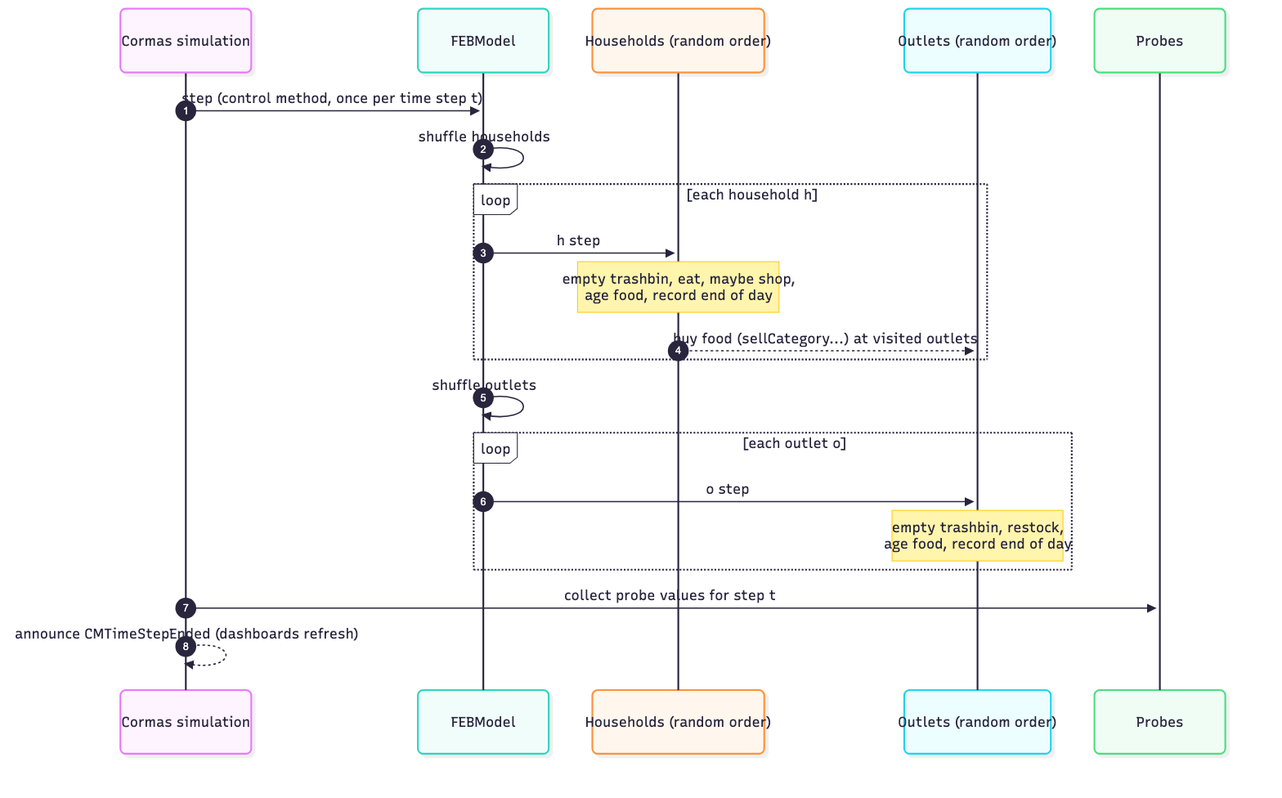
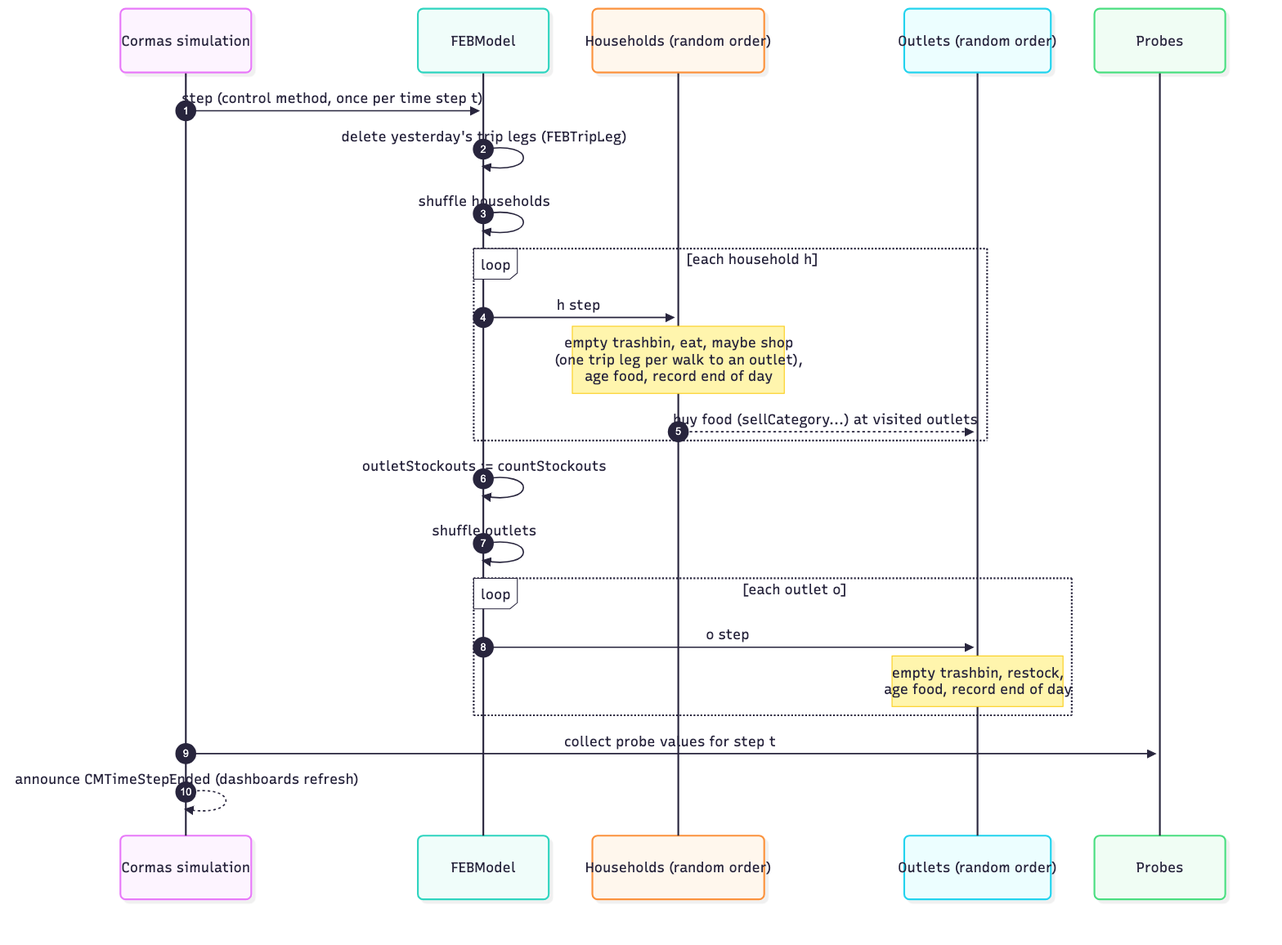
Updated odd.md and recommendations.md

diff --git a/odd-from-code/odd.md b/odd-from-code/odd.md
@@ -1,6 +1,6 @@
 # AMAEA model (FE_Beta) — ODD inferred from the code
 
-This ODD (Overview, Design concepts, Details; Grimm et al. 2006, 2010, 2020) describes **the current implementation** of the AMAEA food‑environment model, as found in the repository `amaea-model` at commit `89bba54`. Everything below is inferred from the Pharo/Cormas source code (`src/FE_Beta-Model`, `src/FE_Beta-Model-UI`, `src/FE_Beta-Model-Tests`) and from Cormas methods the model calls. Nothing is taken from the external ODD or pseudocode documents linked in the README.
+This ODD (Overview, Design concepts, Details; Grimm et al. 2006, 2010, 2020) describes **the current implementation** of the AMAEA food‑environment model, as found in the repository `amaea-model` at commit `3460a98` (first written for `89bba54`, then updated for the shopping trips, the food preference classes, the experiment scenarios and their probes). Everything below is inferred from the Pharo/Cormas source code (`src/FE_Beta-Model`, `src/FE_Beta-Model-UI`, `src/FE_Beta-Model-Tests`) and from Cormas methods the model calls. Nothing is taken from the external ODD or pseudocode documents linked in the README.
 
 Where something cannot be inferred from the code, the section is left empty and marked *(not inferable from the code)*.
 
@@ -66,11 +66,15 @@ The research questions, hypotheses and intended policy uses are *(not inferable 
 | Passive object | `FEBShoppingList` | `Object` | Essential and storage needs per category, built daily by a household. |
 | Passive object | `FEBPurchase` | `Object` | One sale/purchase (shared by buyer and seller records). |
 | Passive object | `FEBMeal` | `Object` | One eaten portion with its category and reason. |
+| Link | `FEBTripLeg` | `CMLink` | One walk of today's shopping trip, from the household or an outlet to the next outlet. |
+| Network | `FEBTrip` | `CMNetwork` | The trip of one household: its legs of the day. Draws the path on the space view. |
+| Preference | `FEBFoodPreference` + 3 subclasses | `Object` | A food preference profile: the share of each category and a colour. |
 | Strategy | `FEBStrategy` + 4 subclasses | `Object` | Money and time reserve thresholds of a household. |
 | Strategy | `FEBShoppingStrategy`, `FEBSimpleShoppingStrategy` | `Object` | Shopping trip algorithm. |
 | Strategy | `FEBFoodConsumptionStrategy` + 2 subclasses | `Object` | What a household eats before its preference-based meals. |
 | Record | `FEBHistory`, `FEBDay`, `FEBHouseholdDay`, `FEBOutletDay`, `FEBStockLevel` | `Object` | Per-step records used by indicators and dashboards. |
-| Graphics | `FEBTileset` | `CMTileset` | Outlet icon. |
+
+Cells, households and outlets are drawn with the image files `grass`, `household` and `outlet` of the model's image folder (there is no tileset class any more).
 
 ![Strategy classes](img/02-strategy-classes.png)
 
@@ -84,9 +88,10 @@ The research questions, hypotheses and intended policy uses are *(not inferable 
 
 | Variable | Type | Meaning | Value / source |
 |---|---|---|---|
-| `numberOfHouseholds` | Integer, parameter 0–1000 (default 2) | Households created at init | Overwritten by `initBigGridScenario` (100) and `initUnconstraintedScenario` (2) |
-| `numberOfOutlets` | Integer, parameter 0–1000 (default 1) | Outlets created at init | Overwritten by `initBigGridScenario` (40) and `initUnconstraintedScenario` (20) |
+| `numberOfHouseholds` | Integer, parameter 0–1000 (default 2) | Households created at init | Overwritten by `initBigGridScenario` (100), `initUnconstraintedScenario` (2) and the scenario inits (100) |
+| `numberOfOutlets` | Integer, parameter 0–1000 (default 1) | Outlets created at init | Overwritten by `initBigGridScenario` (40), `initUnconstraintedScenario` (20) and the scenario inits (10–100, §5.2) |
 | `foodCategories` | OrderedCollection of 5 `FEBFoodCategory` | The food groups, in a fixed order | `initializeFoodCategories` |
+| `outletStockouts` | Integer | Outlet × category pairs sold out once households have shopped, read by the "Outlet stockouts" probe | 0, then set in every `step` |
 | `listOfOutlets` | — | Declared, never used | — |
 
 ### 2.3 Food categories (`FEBFoodCategory`)
@@ -111,11 +116,13 @@ Instance state:
 |---|---|---|---|
 | `householdSize` | Integer | Number of persons | `randomIntegerBetween: minHouseholdSize and: maxHouseholdSize` (2..5, see §5.3) |
 | `dailyNeed` | Integer (meals/day) | Meals the household needs per day | `10 × householdSize` |
-| `foodPreferenceProportions` | OrderedDictionary category → proportion | Share of the daily need wanted per category, sorted most preferred first (ties by name) | One of 3 profiles (§5.4) |
+| `foodPreference` | `FEBFoodPreference` | The household's preference profile | Balanced diet at creation, then one of 3 profiles (§5.4) |
+| `foodPreferenceProportions` | OrderedDictionary category → proportion | Share of the daily need wanted per category, sorted most preferred first (ties by name) | From `foodPreference` (§5.4); tests may set it directly |
 | `substitutionList` | Dictionary category → category | Next category to eat/buy when one is missing | Same chain for every household (§7.3) |
+| `trip` | `FEBTrip` | The network of the legs walked today (§2.9) | Created the first time the household shops |
 | `strategy` | `FEBStrategy` | Money/time reserve thresholds | `MoneySaver`, then 50 % `MoneySaver` / 50 % `TimeSaver` |
 | `shoppingStrategy` | `FEBShoppingStrategy` | Trip algorithm | `FEBSimpleShoppingStrategy` |
-| `inventory` | `FEBFoodInventory` | Food at home (fridge + outside) and trashbin | `dailyNeed` meals of the most preferred category, outside the fridge |
+| `inventory` | `FEBFoodInventory` | Food at home (fridge + outside) and trashbin | Empty at creation; `dailyNeed` meals of the most preferred category, outside the fridge, given at init (§5.4) |
 | `availableMoneyPerStep` | Number | Money available for food each step | Class parameter `availableMoneyPerStep` |
 | `availableTimePerStep` | Duration | Time available for shopping each step | Class parameter `availableTimePerStep` hours |
 | `remainingMoney` | Number | Money left during the current trip | Reset to `availableMoneyPerStep` when shopping starts; **not carried over** |
@@ -170,11 +177,15 @@ The outlets' restock at creation is recorded in the step‑0 record.
 | Time step | **1 day** (shelf lives in days; households "eat in the morning and then consider buying food for the next day"; `availableTimePerStep` per step) |
 | Simulation length | *(not set by the model; chosen in the Cormas simulation interface)* |
 | Space | Regular grid of square cells, 8‑neighbourhood, closed (non‑toroidal) borders |
-| Grid size | 30 × 30 (`initBigGridScenario`), 5 × 5 (`initUnconstraintedScenario`), 6 × 6 (`initCustomizable`) |
+| Grid size | 30 × 30 (`initBigGridScenario` and the scenario inits), 5 × 5 (`initUnconstraintedScenario`), 6 × 6 (`initCustomizable`) |
 | Cell size | Expressed only as walking time: **5 minutes per cell** (`FEBCell>>timeToTravelTo:`). The physical length is *(not inferable from the code)*. |
 | Distance | Cormas `distanceTo:` on a closed 8‑neighbourhood grid = **Chebyshev distance** `max(|Δrow|, |Δcolumn|)` (diagonal moves cost one cell) |
 | Food unit | 1 portion = 1 meal; a person needs 10 meals a day |
 | Money unit | *(not inferable from the code)*; all prices are 5 units per meal |
+
+### 2.9 Shopping trips (`FEBTrip`, `FEBTripLeg`)
+
+Each walk of a shopping trip is a directed link, a `FEBTripLeg`: from the household's home, or from the outlet it has just left, to the next outlet visited (§7.4). The legs of one household belong to its trip, a `FEBTrip` network that knows its household and whether it is highlighted. Legs last one day: `FEBModel>>step` deletes them all before the households act, which also takes them out of their trips, while the trips themselves stay. Trips have no effect on the simulation: they record where households walked, for the new probes (§8.1) and for the space view (§8.2).
 
 ---
 
@@ -182,9 +193,11 @@ The outlets' restock at creation is recorded in the step‑0 record.
 
 The Cormas control method is `FEBModel>>step` (pragma `<control>`). Within one time step:
 
-1. All **households**, in a **new random order**, execute `FEBHousehold>>step`.
-2. Then all **outlets**, in a **new random order**, execute `FEBOutlet>>step`.
-3. Cormas then records the probes (§8) and announces `CMTimeStepEnded` (used by the dashboards).
+1. Yesterday's **trip legs are deleted** (§2.9).
+2. All **households**, in a **new random order**, execute `FEBHousehold>>step`.
+3. The model **counts the outlet stockouts** (`countStockouts`): what households left, before outlets restock.
+4. Then all **outlets**, in a **new random order**, execute `FEBOutlet>>step`.
+5. Cormas then records the probes (§8) and announces `CMTimeStepEnded` (used by the dashboards).
 
 ![Model schedule](img/05-model-schedule.png)
 
@@ -195,7 +208,7 @@ The Cormas control method is `FEBModel>>step` (pragma `<control>`). Within one t
 1. **Empty the trashbin** (food that spoiled the previous night is thrown away).
 2. **Eat** (`consumeFood`, §7.1) up to `dailyNeed` meals; record them; update `hungerMemory`.
 3. **Decide whether to shop** (`shouldGoShopping`, §7.2).
-4. If so, **go shopping** (`goShopping`): reset money and time, **build a shopping list** (§7.3), **do the trip** (§7.4–7.5), record money/time available and time spent, call `reconsiderPreference` (empty, TODO).
+4. If so, **go shopping** (`goShopping`): reset money and time, **build a shopping list** (§7.3), **do the trip** (§7.4–7.5, one trip leg per walk), record money/time available and time spent, call `reconsiderPreference` (empty, TODO).
 5. **Age the food** (`becomeOneDayOlder`): every batch loses one day; expired batches move to the trashbin.
 6. **Record the end of the day** (stock levels and spoiled food).
 
@@ -244,7 +257,7 @@ From the code, these outputs are not imposed but result from interactions betwee
 - Households adapt **what they eat** to what is in their inventory (own share → substitutes → any food left).
 - They adapt **what they buy** to their stock (only what is missing for tomorrow and the next 5 days), to fridge space (perishable storage replaced by non‑perishable substitutes), to money (essential first, then storage within a reserve) and to time (stop when the next outlet is too far).
 - They adapt **where they buy** to availability (go on to the next closest outlet when needs remain).
-- `reconsiderPreference` exists but is empty: preferences and strategies **do not change** over time.
+- `reconsiderPreference` exists but is empty: the model never changes preferences or strategies over time. A user can change them during a run with the household actions (`prefer…`, `be…Saver`); a new preference keeps the food already bought.
 
 ### 4.4 Objectives
 
@@ -274,9 +287,9 @@ Households anticipate **tomorrow**: food that will be expired tomorrow (`remaini
 
 | Where | Random process |
 |---|---|
-| Placement | Households and outlets on random empty cells (`create:randomlyLocatedAloneEntitiesOfClass:`); never two on the same cell |
+| Placement | Households and outlets on random empty cells, never two on the same cell; outlets only within the scenario's region when it has one (`initializeAgentsWithOutletsOn:`) |
 | Household size | `(min + U[0,1) × (max − min)) rounded` (Cormas `randomIntegerBetween:and:`) |
-| Preference profile | Households shuffled, then profile A, B, C assigned in turn |
+| Preference profile | Households shuffled, then sent `preferMeatAndDairy`, `preferStapleAndProcessedFood`, `preferBalancedDiet` in turn |
 | Strategy | Households shuffled; first 50 % MoneySaver, rest TimeSaver |
 | Restock | 10 draws with replacement of a category, uniformly among the 5 |
 | Scheduling | Households, then outlets, shuffled each step |
@@ -286,7 +299,7 @@ All random draws use the Cormas random number generator, so a fixed seed reprodu
 
 ### 4.10 Collectives
 
-None explicitly. Households sharing a preference profile or a strategy form groups only for observation (shapes in the perspectives).
+None that affect the simulation. Households sharing a preference profile form groups only for observation (the `aspectFoodPreference:` colours). Each household's trip legs form a network (`FEBTrip`, §2.9), which is also only observed.
 
 ### 4.11 Observation
 
@@ -306,13 +319,24 @@ When a `FEBModel` is created, Cormas `initializeParameters` resets every paramet
 
 ### 5.2 Scenarios (init methods)
 
-| Init method | Grid | Households | Outlets | Parameters overwritten | Default perspective |
-|---|---|---|---|---|---|
-| `initBigGridScenario` | 30 × 30 | 100 | 40 | none | `perspectiveSatiety` |
-| `initUnconstraintedScenario` | 5 × 5 | 2 | 20 | money 2000, time 24 h, fridge 500, restock 300 | `perspectiveSatietyAndOutletImages` |
-| `initCustomizable` | 6 × 6 | `numberOfHouseholds` | `numberOfOutlets` | restock 3000 | `perspectiveSatietyAndOutletImages` |
+| Init method | Grid | Households | Outlets | Parameters overwritten |
+|---|---|---|---|---|
+| `initBigGridScenario` | 30 × 30 | 100 | 40 | none |
+| `initUnconstraintedScenario` | 5 × 5 | 2 | 20 | money 2000, time 24 h, fridge 500, restock 300 |
+| `initCustomizable` | 6 × 6 | `numberOfHouseholds` | `numberOfOutlets` | none |
 
-All grids: 8‑neighbourhood, closed. Each init then calls `initializeFoodCategories` and `initializeAgents`.
+All grids: 8‑neighbourhood, closed; every init opens in `perspectiveSatiety`. Each init then calls `initializeFoodCategories` and `initializeAgents`.
+
+**Experiment scenarios.** Six more inits, used in [`scenarios.md`](scenarios.md), share `initScenarioWithOutlets:restocking:on:`. It sets **every** class parameter (100 households of 2–5 people, money 200, 2 h, fridge 20, consumption strategy "No spoil weirdo"), creates a 30 × 30 grid and places the outlets with `initializeAgentsWithOutletsOn:`, only on the cells where the scenario's block answers true:
+
+| Init method | Outlets | Placement | Restock per outlet |
+|---|---|---|---|
+| `initBaseline` | 40 | anywhere | 100 |
+| `initAbundantSupply` | 40 | anywhere | 200 |
+| `initScarceSupply` | 40 | anywhere | 60 |
+| `initNearOutlets` | 100 | anywhere | 40 |
+| `initUnequalDistance` | 40 | columns 1–15 | 100 |
+| `initFoodDesert` | 10 | rows and columns 1–10 | 400 |
 
 ### 5.3 Households
 
@@ -321,11 +345,20 @@ All grids: 8‑neighbourhood, closed. Each init then calls `initializeFoodCatego
 - `householdSize` = `(min + U[0,1)·(max − min)) rounded`. With the defaults 2 and 5: P(2) = 1/6, P(3) = 1/3, P(4) = 1/3, P(5) = 1/6 (mean 3.5).
 - `dailyNeed = 10 × householdSize`.
 - Money and time from the class parameters; `remainingMoney`/`remainingTime` set to them.
-- Strategy MoneySaver (temporary), `FEBSimpleShoppingStrategy`, empty history.
+- Strategy MoneySaver and preference "balanced diet" (both temporary), an empty inventory with the class fridge capacity, `FEBSimpleShoppingStrategy`, empty history.
+- The default preference needs the model's food categories, so households can only be created after `initializeFoodCategories` (Appendix C).
 
 ### 5.4 Preferences
 
-`initializePreferences` shuffles the households and assigns, by index modulo 3:
+Each preference profile is a subclass of `FEBFoodPreference`, which holds the share of each category by name (`shares`) and a colour, and each has a household `<action>` that sets it:
+
+| Profile | Class | Action | Colour |
+|---|---|---|---|
+| A | `FEBMeatAndDairyPreference` | `preferMeatAndDairy` | red |
+| B | `FEBStapleAndProcessedFoodPreference` | `preferStapleAndProcessedFood` | brown |
+| C | `FEBBalancedDietPreference` | `preferBalancedDiet` | green |
+
+`initializePreferences` shuffles the households and sends them the three actions in turn, by index modulo 3:
 
 | Category | A "eats a lot of meat and dairy" | B "eats a lot of staple and processed food" | C "has a balanced diet" |
 |---|---|---|---|
@@ -335,7 +368,7 @@ All grids: 8‑neighbourhood, closed. Each init then calls `initializeFoodCatego
 | Dairy | 0.30 | 0.10 | 0.15 |
 | Processed food | 0.05 | 0.30 | 0.10 |
 
-So the profiles are as equal in number as possible (A gets the extra household(s)). Setting preferences also **initializes the inventory**: fridge capacity from the class parameter, and one batch of `dailyNeed` meals of the **most preferred category, outside the fridge**, with that category's outside shelf life (so households can eat on the first step).
+So the profiles are as equal in number as possible (A gets the extra household(s)). After its preference, each household gets its **first day of food** (`storeFoodForTheFirstDay`): one batch of `dailyNeed` meals of the **most preferred category, outside the fridge**, with that category's outside shelf life, so that it can eat on the first step. A preference set later, through an action, keeps the food already bought.
 
 ### 5.5 Substitution list
 
@@ -359,7 +392,7 @@ So the profiles are as equal in number as possible (A gets the extra household(s
 
 ### 5.7 Outlets
 
-Created after the households, on random empty cells. `FEBOutlet>>initialize` sets every price to 5, creates an empty history and inventory, and **restocks once** (§7.7). Finally every household receives the collection of all outlets.
+Created after the households, on random empty cells (only within the scenario's region, if it has one). `FEBOutlet>>initialize` sets every price to 5, creates an empty history and inventory, and **restocks once** (§7.7). Finally every household receives the collection of all outlets.
 
 ---
 
@@ -429,7 +462,7 @@ The list keeps the insertion order, which is the preference order (most preferre
    1. Choose the **unvisited outlet closest to the current position** (greedy nearest neighbour, Chebyshev distance).
    2. Travel time `t = 5 min × distance`.
    3. Time budget: `remainingTime` if essential needs remain; otherwise `remainingTime − availableTimePerStep × timeThreshold`. If `t` exceeds the budget, the trip **ends**.
-   4. Move there, mark it visited, `remainingTime −= t`.
+   4. Record the walk as a `FEBTripLeg` from the previous stop (home at first) to this outlet, in the household's trip (§2.9). Move there, mark it visited, `remainingTime −= t`.
    5. **Buy essentials** (each essential need in list order, money limit = `remainingMoney`), then **buy for storage** (money limit = `remainingMoney − availableMoneyPerStep × moneyThreshold`, recomputed after each category; stop as soon as it is ≤ 0).
 3. Purchases reduce the list: essential need first, then storage need of the same category (`decreaseNeedOf:by:`).
 
@@ -508,20 +541,38 @@ Unused metrics on `FEBHousehold`: `averageDistanceTo5ClosestOutlets`, `averageDi
 | Demand | Σ `dailyNeed` | — |
 | Supply | Σ `restockAmount` of outlets (constant) | — |
 | Total supply | Σ meals in outlets' inventories | — |
+| Missing meals | Σ over households of `dailyNeed` − meals eaten that day | 0 |
+| Average diet diversity | mean number of food categories eaten that day | 0 |
+| Outlet stockouts | outlet × category pairs sold out once households have shopped (`outletStockouts`) | 0 |
+| Minutes to the first outlet | mean walk from home to the first outlet, among households that reached one (first trip leg) | 0 |
+| Outlets visited | mean number of trip legs, among households that reached an outlet | 0 |
+| Shopping minutes | mean `timeSpent`, among households that went shopping | 0 |
+| Share of budget spent | mean `moneySpent / moneyAvailable`, among households that went shopping | 0 |
 
-There is no probe for outlet waste, money or time spent, healthy diet, meal reasons or distances; these exist only in the per‑entity records and dashboards.
+The last seven probes were added for the experiment scenarios ([`scenarios.md`](scenarios.md) §2). There is still no probe for outlet waste, healthy diet or meal reasons; these exist only in the per‑entity records and dashboards.
 
-### 8.2 Perspectives and points of view
+### 8.2 Perspectives and aspects
 
-| Perspective | Households coloured by | Outlets |
+Each entity class has **aspects** (methods with `<aspect>`, filling a look), and a **perspective** chooses the aspect of each class and which classes are hidden. The Aspects panel of a space view changes these choices.
+
+| Perspective | Households shown with | Hidden |
 |---|---|---|
-| `perspectiveSatiety` | satiety level | — |
-| `perspectiveSatietyAndOutletImages` | satiety level | outlet icon |
-| `perspectiveCaloricAdequacy` | caloric level | — |
-| `perspectiveProteinAdequacy` | protein level | — |
-| `perspectiveHealthyDiet` | green healthy / red not | — |
+| `perspectiveSatiety` | `aspectSatietyIndicator:` | `FEBTrip` |
+| `perspectiveCaloricAdequacy` | `aspectCaloricAdequacyIndicator:` | `FEBTrip` |
+| `perspectiveProteinAdequacy` | `aspectProteinAdequacyIndicator:` | `FEBTrip` |
+| `perspectiveHealthyDiet` | `aspectHealthyDiet:` (green healthy / red not) | `FEBTrip` |
 
-Colours: red `#B85353` (hungry, severely inadequate), orange `#E5A16D` (unsatiated, inadequate), green `#78A882` (full, adequate), purple `#9274B5` (excess); grey before the first step. Shape = strategy (square MoneySaver, triangle TimeSaver, circle DesperateSaver, star RichBastard). Size = `0.5 + 0.5 × (size − min)/(max − min)`. Older `pov…` methods give the same information for the legacy Cormas UI.
+| Class | Aspects |
+|---|---|
+| `FEBCell` | default: the `grass` image, no border; `aspectWhite:` |
+| `FEBOutlet` | default: the `outlet` image, size 0.8 |
+| `FEBHousehold` | default: the `household` image, square, size `0.5 + 0.5 × (size − min)/(max − min)`; the four indicator aspects tint it with the level colour (60 % opacity); `aspectFoodPreference:` tints it with the preference colour (§5.4) |
+| `FEBTrip` | default: orange path, 0.05 of a cell thick; red when highlighted, and every other trip hidden; `aspectHousehold:`: a colour per household (`colorGroupedBy:` its id), the same hiding |
+| `FEBTripLeg` | always invisible: its trip draws the path |
+
+Indicator colours (`CMColor`): red `#B90E0A` (hungry, severely inadequate), gold `#E5B80B` (unsatiated, inadequate), green `#00B44C` (full, adequate), purple `#660099` (excess); grey `#808080` before the first step. The strategy is no longer shown (all households are squares).
+
+Trips are hidden in every perspective of the model and shown with the eye of `FEBTrip` in the Aspects panel. The household actions `highlightTrip` (highlight this household's trip, which hides the others) and `unhighlightTrip` (no trip highlighted, all shown) change what the trip aspects show; a highlight lasts until it is cleared. A network draws a line without arrowheads, so the direction of the walk is not shown.
 
 ### 8.3 Dashboards (`FE_Beta-Model-UI`)
 
@@ -543,15 +594,17 @@ A **Dashboard** inspector tab on any household or outlet (also `FEBHouseholdDash
 
 | Parameter | Owner | Type / range | Default | Overwritten by |
 |---|---|---|---|---|
-| `numberOfHouseholds` | `FEBModel` (instance) | Integer 0–1000 | 2 | BigGrid 100, Unconstrained 2 |
-| `numberOfOutlets` | `FEBModel` (instance) | Integer 0–1000 | 1 | BigGrid 40, Unconstrained 20 |
-| `availableMoneyPerStep` | `FEBHousehold` class | Integer 1–10000 | 100 | Unconstrained 2000 |
-| `availableTimePerStep` (hours) | `FEBHousehold` class | Float 0–24 | 2 | Unconstrained 24 |
-| `fridgeCapacity` (meals) | `FEBHousehold` class | Integer 0–10000 | 6 | Unconstrained 500 |
-| `minHouseholdSize` | `FEBHousehold` class | Integer | 2 | — |
-| `maxHouseholdSize` | `FEBHousehold` class | Integer | 5 | — |
-| `consumptionStrategySymbol` | `FEBHousehold` class | `#'No spoil weirdo'` / `#'Some fuck about spoil'` | `#'No spoil weirdo'` | — |
-| `restockAmount` (meals per outlet per step) | `FEBOutlet` class | Integer 10–10000, step 10 | 200 | Unconstrained 300, Customizable 3000 |
+| `numberOfHouseholds` | `FEBModel` (instance) | Integer 0–1000 | 2 | BigGrid 100, Unconstrained 2, scenarios 100 |
+| `numberOfOutlets` | `FEBModel` (instance) | Integer 0–1000 | 1 | BigGrid 40, Unconstrained 20, scenarios 10–100 |
+| `availableMoneyPerStep` | `FEBHousehold` class | Integer 1–10000 | 100 | Unconstrained 2000, scenarios 200 |
+| `availableTimePerStep` (hours) | `FEBHousehold` class | Float 0–24 | 2 | Unconstrained 24, scenarios 2 |
+| `fridgeCapacity` (meals) | `FEBHousehold` class | Integer 0–10000 | 6 | Unconstrained 500, scenarios 20 |
+| `minHouseholdSize` | `FEBHousehold` class | Integer | 2 | scenarios 2 |
+| `maxHouseholdSize` | `FEBHousehold` class | Integer | 5 | scenarios 5 |
+| `consumptionStrategySymbol` | `FEBHousehold` class | `#'No spoil weirdo'` / `#'Some fuck about spoil'` | `#'No spoil weirdo'` | scenarios `#'No spoil weirdo'` |
+| `restockAmount` (meals per outlet per step) | `FEBOutlet` class | Integer 10–10000, step 10 | 200 | Unconstrained 300, scenarios 40–400 |
+
+"Scenarios" are the six experiment inits of §5.2, which set every class parameter.
 
 ### A.2 Hard-coded constants
 
@@ -569,7 +622,9 @@ A **Dashboard** inspector tab on any household or outlet (also `FEBHouseholdDash
 | Share of MoneySavers | 0.5 | `FEBModel>>initializeStrategies` |
 | Fridge rule | outside ≤ 2 days and fridge > 2 days | `FEBFoodCategory>>shouldBeStoredInFridge` |
 | Initial `satisfactionMemory` | 2 (unused) | `FEBHousehold>>initialize` |
-| Food categories, preferences, substitution chain, strategy thresholds | see §2.3, §5.4, §5.5, §7.4 | `FEBModel`, strategies |
+| Food categories, substitution chain, strategy thresholds | see §2.3, §5.5, §7.4 | `FEBModel`, strategies |
+| Preference shares and colours | see §5.4 | `shares`, `color` of the `FEBFoodPreference` subclasses |
+| Trip thickness and colours | 0.05 of a cell; orange, red when highlighted | `FEBTrip>>aspectDefault:` |
 
 ---
 
@@ -624,17 +679,19 @@ These are facts about the current code that matter when reading results. They ar
 4. **Outlets sell the freshest food first** (LIFO), while households eat the oldest food first.
 5. **Restock ignores demand**: categories are random; staple and processed food (30 days) accumulate in outlets over the first 30 steps.
 6. **All prices are equal (5)**, so prices play no role in choices other than the total budget.
-7. **Preferences, strategies and the substitution chain never change**; `reconsiderPreference` is a TODO.
+7. **The model never changes preferences, strategies or the substitution chain**; `reconsiderPreference` is a TODO. Only a user can, with the household actions.
 8. **`hungerMemory` and `satisfactionMemory` have no effect.**
 9. **`hasFoodForOneDay` counts food in its last day**, whereas the preferred-food check and the shopping list do not.
 10. **The healthy diet indicator checks all 5 categories** (because every profile contains all 5), with an absolute threshold of 7 meals per week per household.
 11. **Strategies are given to `self agents`**; this is correct only because outlets are created afterwards.
 12. **The consumption strategy is a class parameter**: all households use the same one.
-13. **`initUnconstraintedScenario` and `initCustomizable` overwrite parameters**, so values changed in the Cormas interface for those parameters are ignored with those inits.
+13. **`initUnconstraintedScenario` and the six scenario inits overwrite parameters**, so values changed in the Cormas interface for those parameters are ignored with those inits. The scenario inits set every class parameter, so no value is left over from an earlier run; the class parameters keep the scenario's values afterwards.
 14. **The fridge substitution uses the free space before shopping**; essential perishable purchases made during the trip can still overflow the fridge.
 15. **Ties between equidistant outlets** are broken by the order of the outlets collection.
 16. **The "Supply" probe is constant** (`numberOfOutlets × restockAmount`).
-17. Unused state: `FEBModel>>listOfOutlets`, `FEBOutlet>>conventionalFoodInventory`, `healthyFoodInventory`, `FEBCell>>state` (always `#empty`).
+17. Unused state: `FEBModel>>listOfOutlets`, `FEBOutlet>>conventionalFoodInventory`, `healthyFoodInventory`, `FEBCell>>state` (always `#empty`). Unused methods: `FEBHousehold>>shapeOfPovBasedOnStrategy` (the strategy is no longer drawn) and the distance metrics of §7.9.
+18. **A household needs the model's food categories when it is created**, because `FEBHousehold>>initialize` sets the balanced‑diet preference. Creating a household in a model without food categories fails; this is why the 16 tests of `FEBHouseholdConsumptionTest` fail at commit `3460a98`.
+19. **Trip legs are created and deleted every step** (about 750 a step in the 100‑household scenarios). Measured on 2026‑11‑18, this adds about 1.2 ms to a step of 175 ms.
 
 ---
 
@@ -644,9 +701,9 @@ These are facts about the current code that matter when reading results. They ar
 
 | Package | Content |
 |---|---|
-| `FE_Beta-Model` | Model, agents, food, strategies, records |
+| `FE_Beta-Model` | Model, agents, food, preferences, strategies, trips, records |
 | `FE_Beta-Model-UI` | Dashboards, day presenters, charts (Roassal), step navigator, inspector extensions |
-| `FE_Beta-Model-Tests` | 9 test classes |
+| `FE_Beta-Model-Tests` | 10 test classes |
 | `BaselineOfAmaeaModel` | Loads the three packages (Cormas is not in the baseline) |
 
 ### D.2 Where each process lives
@@ -654,7 +711,10 @@ These are facts about the current code that matter when reading results. They ar
 | Process | Method |
 |---|---|
 | Schedule | `FEBModel>>step` |
-| Init | `FEBModel>>initBigGridScenario`, `initUnconstraintedScenario`, `initCustomizable`, `initializeAgents`, `initializeFoodCategories`, `initializePreferences`, `initializeSubstitutionList`, `initializeStrategies` |
+| Init | `FEBModel>>initBigGridScenario`, `initUnconstraintedScenario`, `initCustomizable`, `initializeAgents`, `initializeAgentsWithOutletsOn:`, `initializeFoodCategories`, `initializePreferences`, `initializeSubstitutionList`, `initializeStrategies` |
+| Scenario inits | `FEBModel>>initScenarioWithOutlets:restocking:on:`, `initBaseline`, `initAbundantSupply`, `initScarceSupply`, `initNearOutlets`, `initUnequalDistance`, `initFoodDesert` (protocol `scenarios`) |
+| Preferences | `FEBHousehold>>prefer:`, `preferMeatAndDairy`, `preferStapleAndProcessedFood`, `preferBalancedDiet`, `storeFoodForTheFirstDay`; `FEBFoodPreference>>sharesIn:` |
+| Trips | `FEBTrip`, `FEBTripLeg`; `FEBHousehold>>trip`, `highlightTrip`, `unhighlightTrip`; deleted in `FEBModel>>step` |
 | Household step | `FEBHousehold>>step` |
 | Eating | `consumeFood`, `eatFoodInItsLastDay`, `eatMealsByPreference:`, `eat:mealsOf:as:`, `eat:substitutesFor:`, `eatAnyFood:`, `mealsPerCategoryFor:` |
 | Shopping decision | `shouldGoShopping`, `hasFoodForOneDay`, `hasPreferredFoodForOneDay` |
@@ -665,14 +725,18 @@ These are facts about the current code that matter when reading results. They ar
 | Restock | `FEBOutlet>>restock` |
 | Ageing | `FEBFoodInventory>>becomeOneDayOlder`, `removeExpiredBatched` |
 | Indicators | `FEBHousehold>>satietyScoreOn:`, `caloricAdequacyScoreOn:`, `proteinAdequacyScoreOn:`, `isHavingHealthyDietOn:`, `…LevelOf:` |
-| Probes | `FEBModel` methods with `<probeNamed:color:>` |
+| Probes | `FEBModel` methods with `<probeNamed:color:>`; helpers in protocol `probes - private`; `FEBHousehold>>missingMeals`, `dietDiversity`; `FEBOutlet>>isOutOf:` |
 
 ### D.3 What the tests establish
 
-The test suite (about 120 tests) states the intended behaviour:
+The test suite (143 tests) states the intended behaviour:
 
 - **Food** (`FEBFoodBatchTest`, `FEBFoodInventoryTest`): batches are never empty; food lasts longer in the fridge; moving food never makes it fresher; spoiled food goes to the trashbin and is counted per category.
 - **Eating** (`FEBHouseholdConsumptionTest`): proportions are respected; meals add up to the daily need; soonest‑expiring first; substitutes follow the list; leftovers rather than hunger; never eats spoiled food; behaviour of both consumption strategies.
 - **Shopping** (`FEBShoppingTripTest`, `FEBHouseholdTest`, `FEBShoppingListTest`): closest outlet first; moves on when an outlet is empty; time limit; walks further for today's food than for storage; money reserve for storage; never overspends; buys most preferred first when money is short; unspent money is not saved; fridge is never overfilled; strategy comparisons (MoneySaver vs TimeSaver, DesperateSaver vs RichBastard).
 - **Outlets** (`FEBOutletTest`): freshest first, never last‑day food, never more than stock or money allows, food and money only change hands.
-- **Model** (`FEBModelTest`): preferences sum to 1; half the households save money; sizes within limits; 10 meals per person; every fridge food has a non‑fridge substitute; sold = bought; days add up; same seed → same simulation.
+- **Model** (`FEBModelTest`): preferences sum to 1; households are shared equally among the three preferences; half the households save money; sizes within limits; 10 meals per person; every fridge food has a non‑fridge substitute; sold = bought; days add up; same seed → same simulation.
+- **Preferences** (`FEBHouseholdTest`): changing a household's preference keeps its food.
+- **Trips** (`FEBShoppingTripTest`): the trip goes from home to each visited outlet in turn; an outlet out of reach is not on it; the legs make up the household's trip; a new day starts without yesterday's trips; highlighting one trip unhighlights the others, and unhighlighting leaves none highlighted.
+- **Probes** (`FEBShoppingTripTest`, protocol `tests - probes`): missing meals, diet diversity, minutes to the first outlet, shopping minutes, outlets visited, share of budget spent, stockouts.
+- **Scenarios** (`FEBScenarioTest`): supply against demand in the baseline, scarce and abundant scenarios; the proximity scenarios keep the baseline supply; outlets are in their region; 100 households with a preference each.

diff --git a/odd-from-code/scenarios.md b/odd-from-code/scenarios.md
@@ -5,7 +5,7 @@ Companion to [`odd.md`](odd.md) and [`recommendations.md`](recommendations.md). 
 - **Affordability:** all foods cost the same (5 per meal), so a tighter budget only lowers quantity. It cannot cause the "substitution toward cheaper food groups" that the design asks about.
 - **Convenience:** the exploratory runs found that fridge capacity has little effect while households shop every day.
 
-Code: commit `637fbbd` of `amaea-model`, plus the uncommitted scenario inits and probes described below. **10 random seeds per scenario, 90 steps per run, measures averaged over steps 31–90** (the first 30 steps are a warm‑up, the shelf life of staple and processed food).
+Code: commit `3460a98` of `amaea-model`, which includes the scenario inits and probes described below. **10 random seeds per scenario, 90 steps per run, measures averaged over steps 31–90** (the first 30 steps are a warm‑up, the shelf life of staple and processed food).
 
 ---
 
